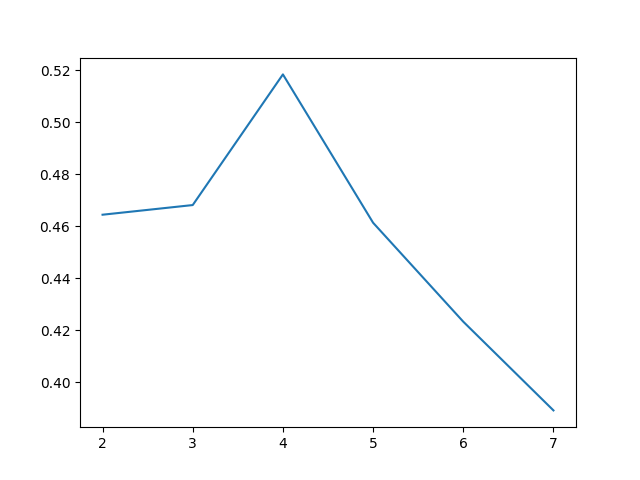
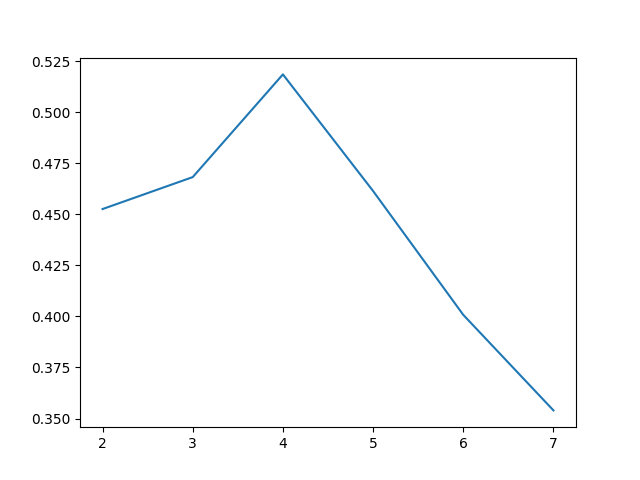
run kmedoids

diff --git a/run_kmc.py b/run_kmc.py
@@ -20,6 +20,7 @@ pyplot.close()
 
 
 def run_kmeans(n,dataset):
+	print("Running kmeans with n=", n)
 
 	machine = KMeans(n_clusters=n)  # or we can use KMeans
 	machine.fit(dataset)
@@ -27,12 +28,12 @@ def run_kmeans(n,dataset):
 	centroids = machine.cluster_centers_ # center of the category
 	ssd = machine.inertia_ # distance from the center of the category to all points in the category
 	if n>1:
-		silhouette = silhouette_score(dataset, machine.labels_, metric='euclidean')
+		silhouette = silhouette_score(dataset, results, metric='euclidean')
 	else:
 		silhouette = 0
 	pyplot.scatter(dataset[:,0],dataset[:,1],c=results)
 	pyplot.scatter(centroids[:,0], centroids[:,1], c='red', marker="*", s = 200)
-	pyplot.savefig('scatterplot_kmean_' + str(n) + '.png')
+	pyplot.savefig('scatterplot_kmeans_' + str(n) + '.png')
 	pyplot.close()
 	return ssd, silhouette
 
@@ -54,7 +55,7 @@ print(result)
 
 ssd_result = [ i[0] for i in result]
 
-pyplot.plot(range(1,8), result)
+pyplot.plot(range(1,8), ssd_result)
 pyplot.savefig("kmeans_ssd.png")
 pyplot.close()
 
@@ -66,7 +67,44 @@ pyplot.close()
 
 print(silhouette_result.index(max(silhouette_result))+2)
 
-# kmedoids(median) is less affected by outliers, kmeans(mean)
+
+def run_kmedoids(n,dataset):
+	print("Running kmedoids with n=", n)
+
+	machine = KMedoids(n_clusters=n)  # or we can use KMeans
+	machine.fit(dataset)
+	results = machine.predict(dataset)
+	centroids = machine.cluster_centers_ # center of the category
+	ssd = machine.inertia_ # distance from the center of the category to all points in the category
+	if n>1:
+		silhouette = silhouette_score(dataset, results, metric='euclidean')
+	else:
+		silhouette = 0
+	pyplot.scatter(dataset[:,0],dataset[:,1],c=results)
+	pyplot.scatter(centroids[:,0], centroids[:,1], c='red', marker="*", s = 200)
+	pyplot.savefig('scatterplot_kmedoids_' + str(n) + '.png')
+	pyplot.close()
+	return ssd, silhouette
+
+
+result = [run_kmedoids(i+1,dataset) for i in range(7)]
+print(result)
+
+ssd_result = [ i[0] for i in result]
+
+pyplot.plot(range(1,8), ssd_result)
+pyplot.savefig("kmedoids_ssd.png")
+pyplot.close()
+
+silhouette_result = [ i[1] for i in result][1:]
+
+pyplot.plot(range(2,8), silhouette_result)
+pyplot.savefig("kmedoids_silhouette.png")
+pyplot.close()
+
+print(silhouette_result.index(max(silhouette_result))+2)
+
+# kmedoids(find the exist point, like median) is less affected by outliers, kmeans(can have center which doesn't exist, like mean)
 
 # implement kmean and find optimal n clusters
 
